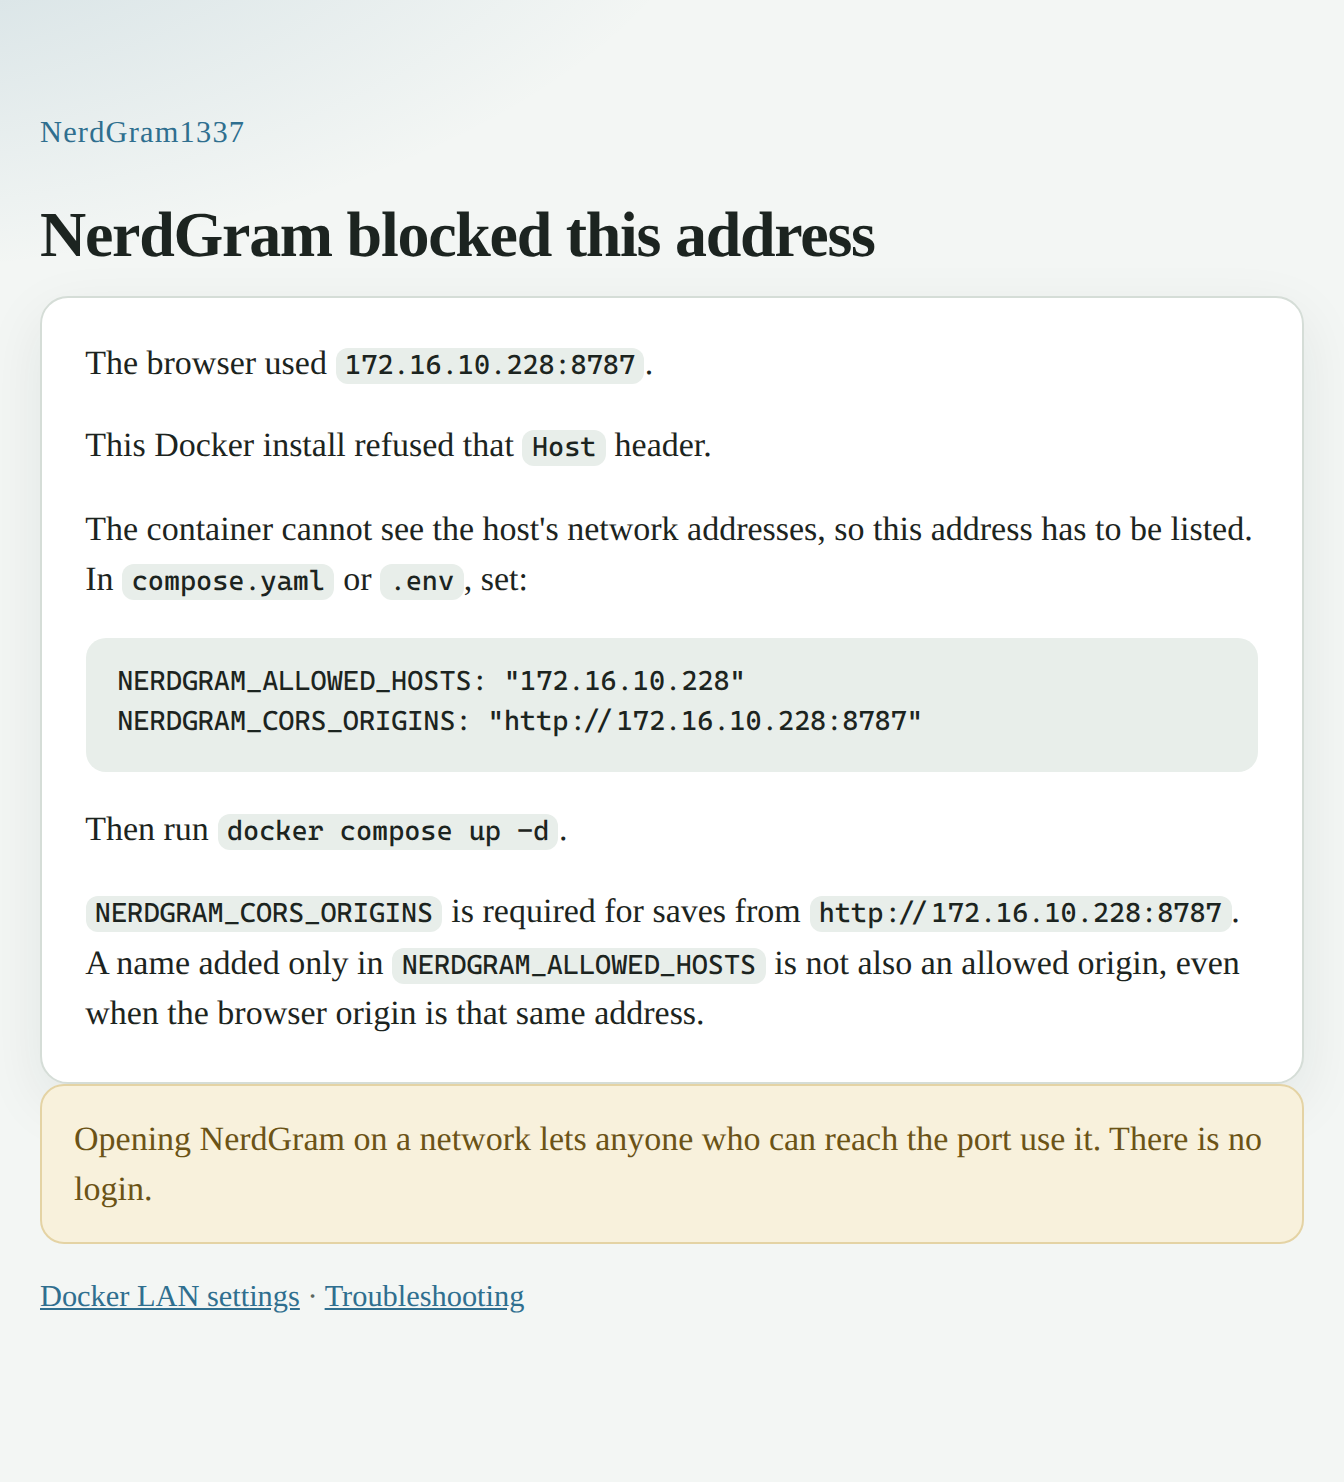
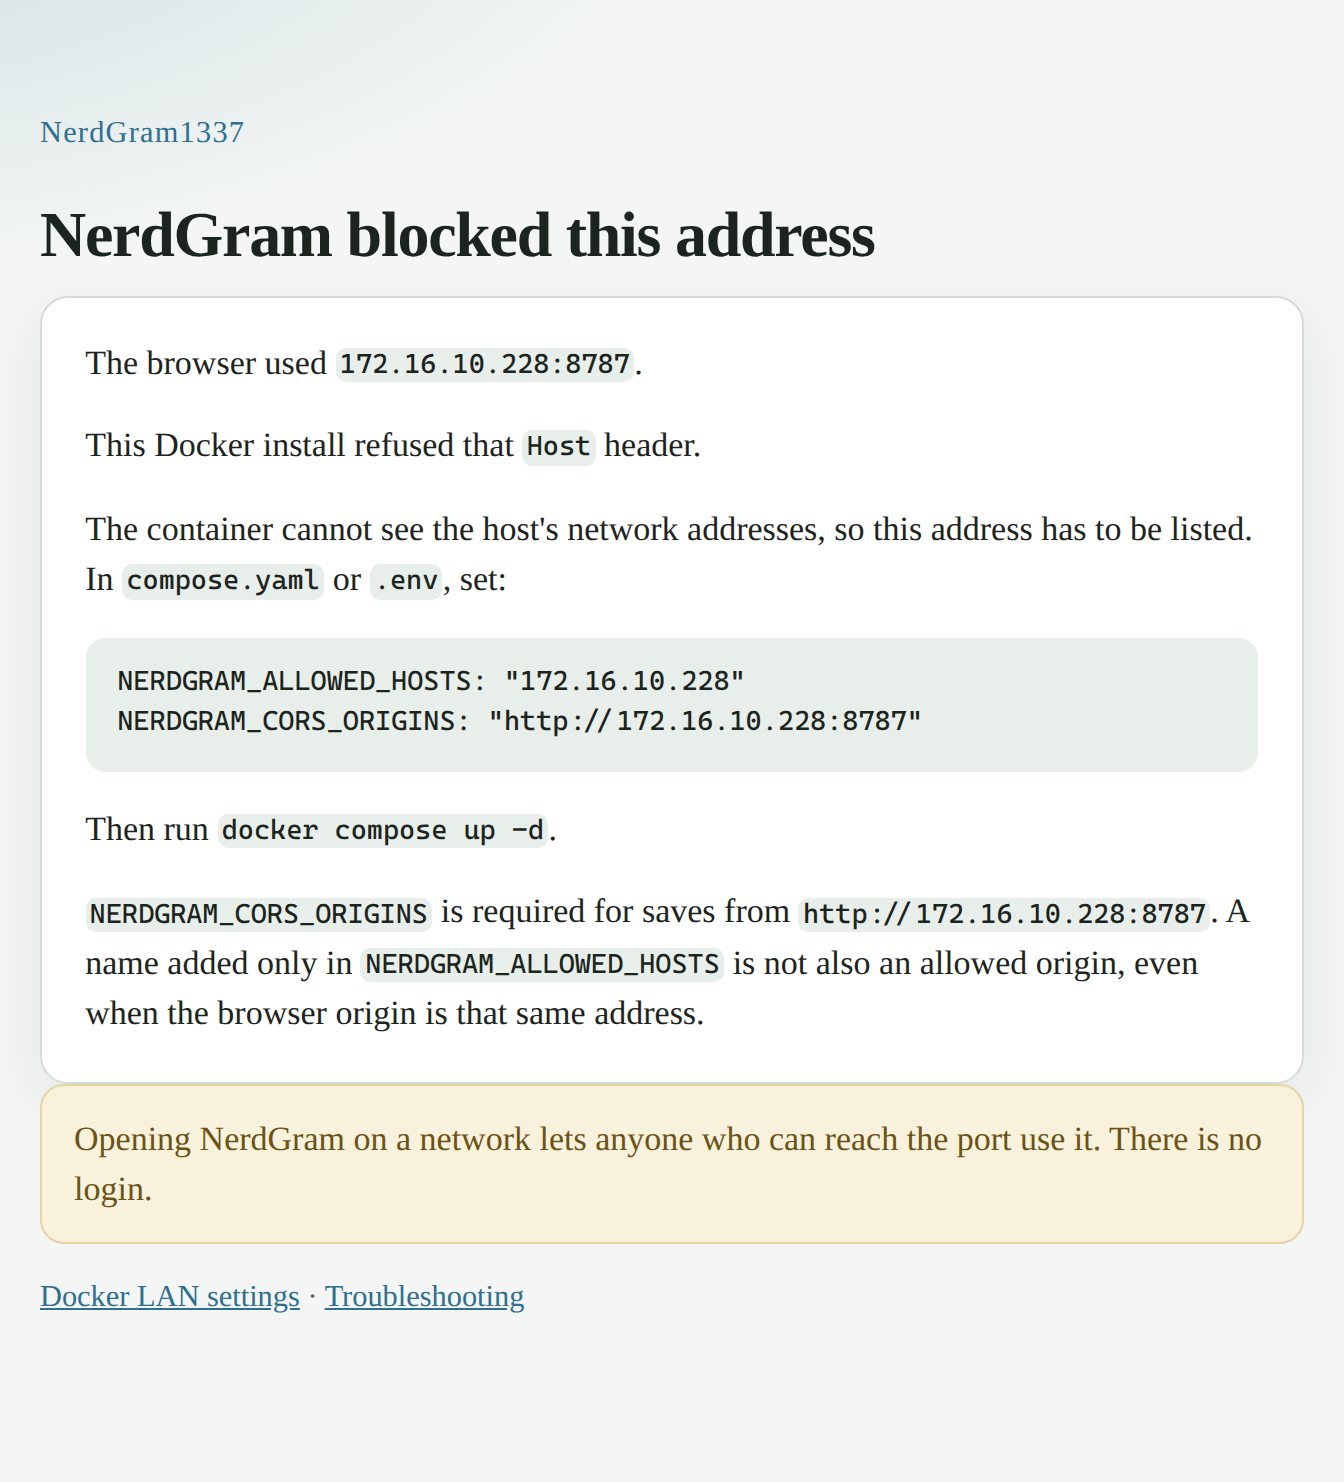
Tighten inline code padding on the forbidden-host page
The chip's side padding left a gap before the period after docker compose up -d. The docs screenshot matches the tighter chips.

Changed region(s): [[0.0625, 0.5587, 0.9375, 0.6829], [0.25, 0.2173, 0.5312, 0.3104], [0.0938, 0.3725, 0.375, 0.4035]]

diff --git a/server/src/forbiddenHostPage.ts b/server/src/forbiddenHostPage.ts
@@ -181,8 +181,8 @@ export function renderForbiddenHostPage(input: {
   }
   code {
     background: var(--code);
-    padding: 0.08em 0.35em;
-    border-radius: 6px;
+    padding: 0.05em 0.16em;
+    border-radius: 5px;
   }
   pre {
     margin: 0 0 1rem;
